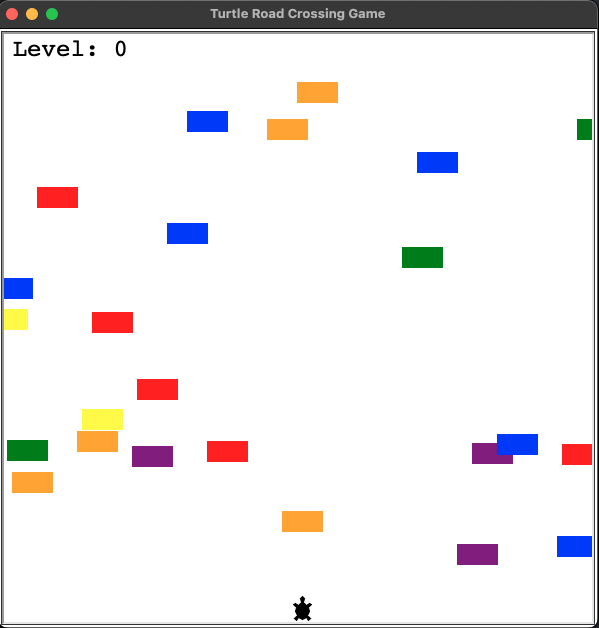
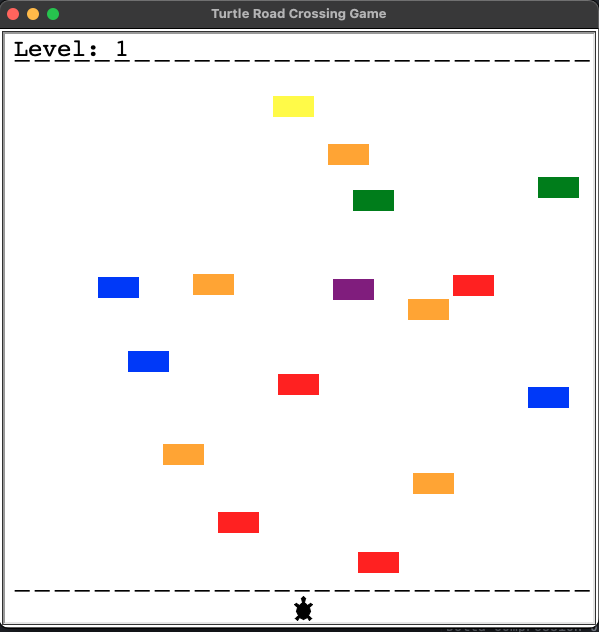
update corssing line and game image

diff --git a/scoreboard.py b/scoreboard.py
@@ -32,5 +32,5 @@ class Scoreboard(Turtle):
             self.goto(x_axis, 270)
             self.write(arg="_", move=False, align="Center", font=FONT)
         for x_axis in range(300, -300, -20):
-            self.goto(x_axis, -250)
+            self.goto(x_axis, -260)
             self.write(arg="_", move=False, align="Center", font=FONT)
